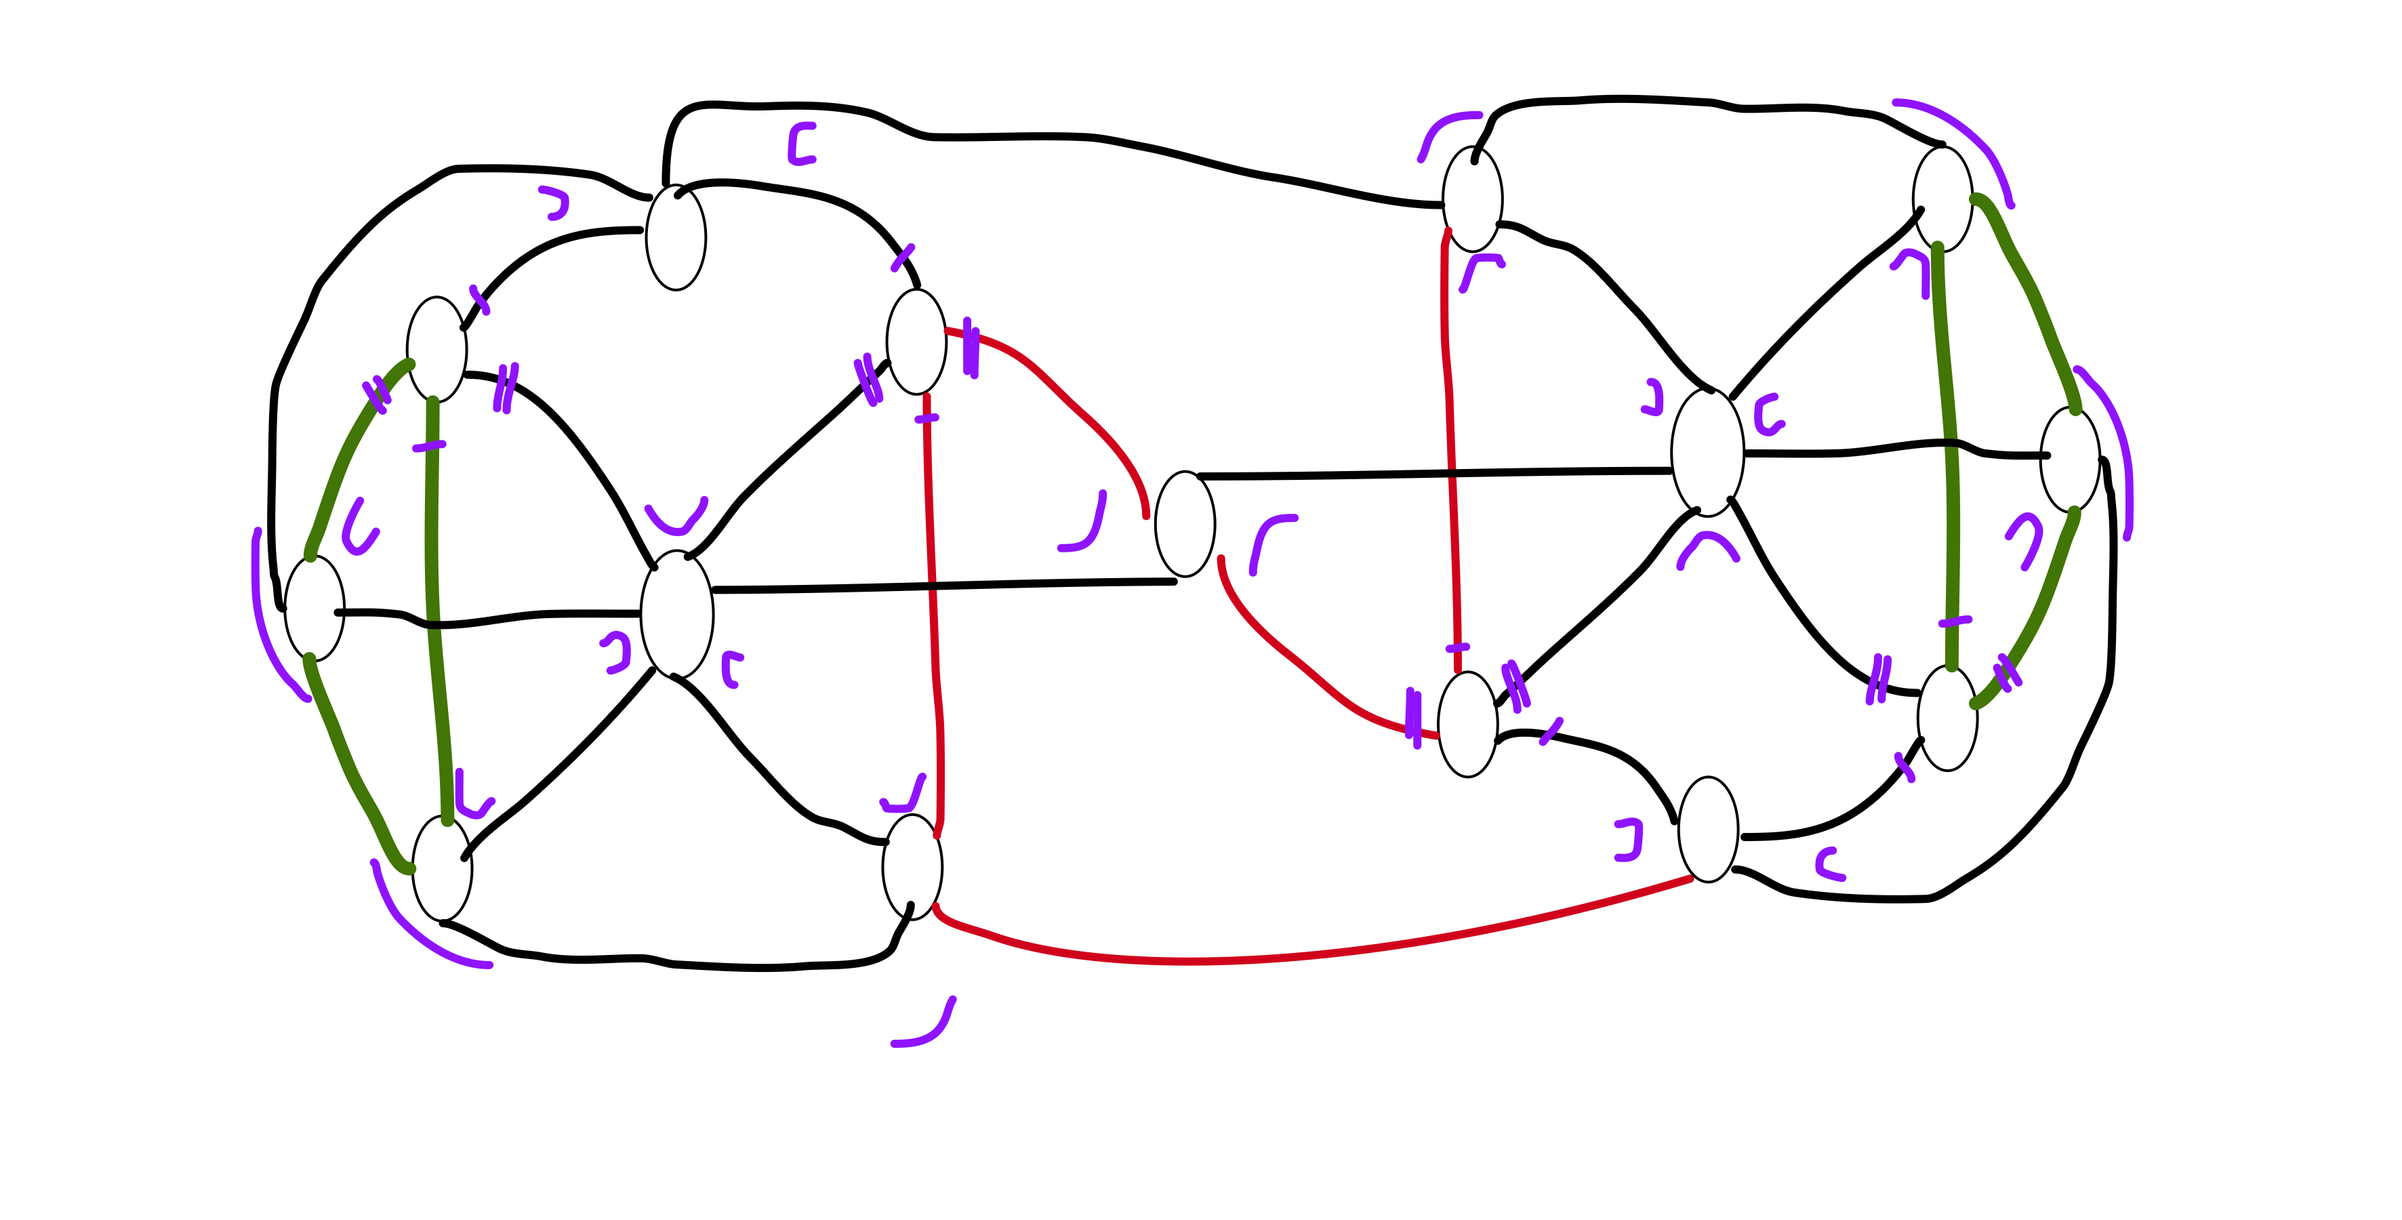
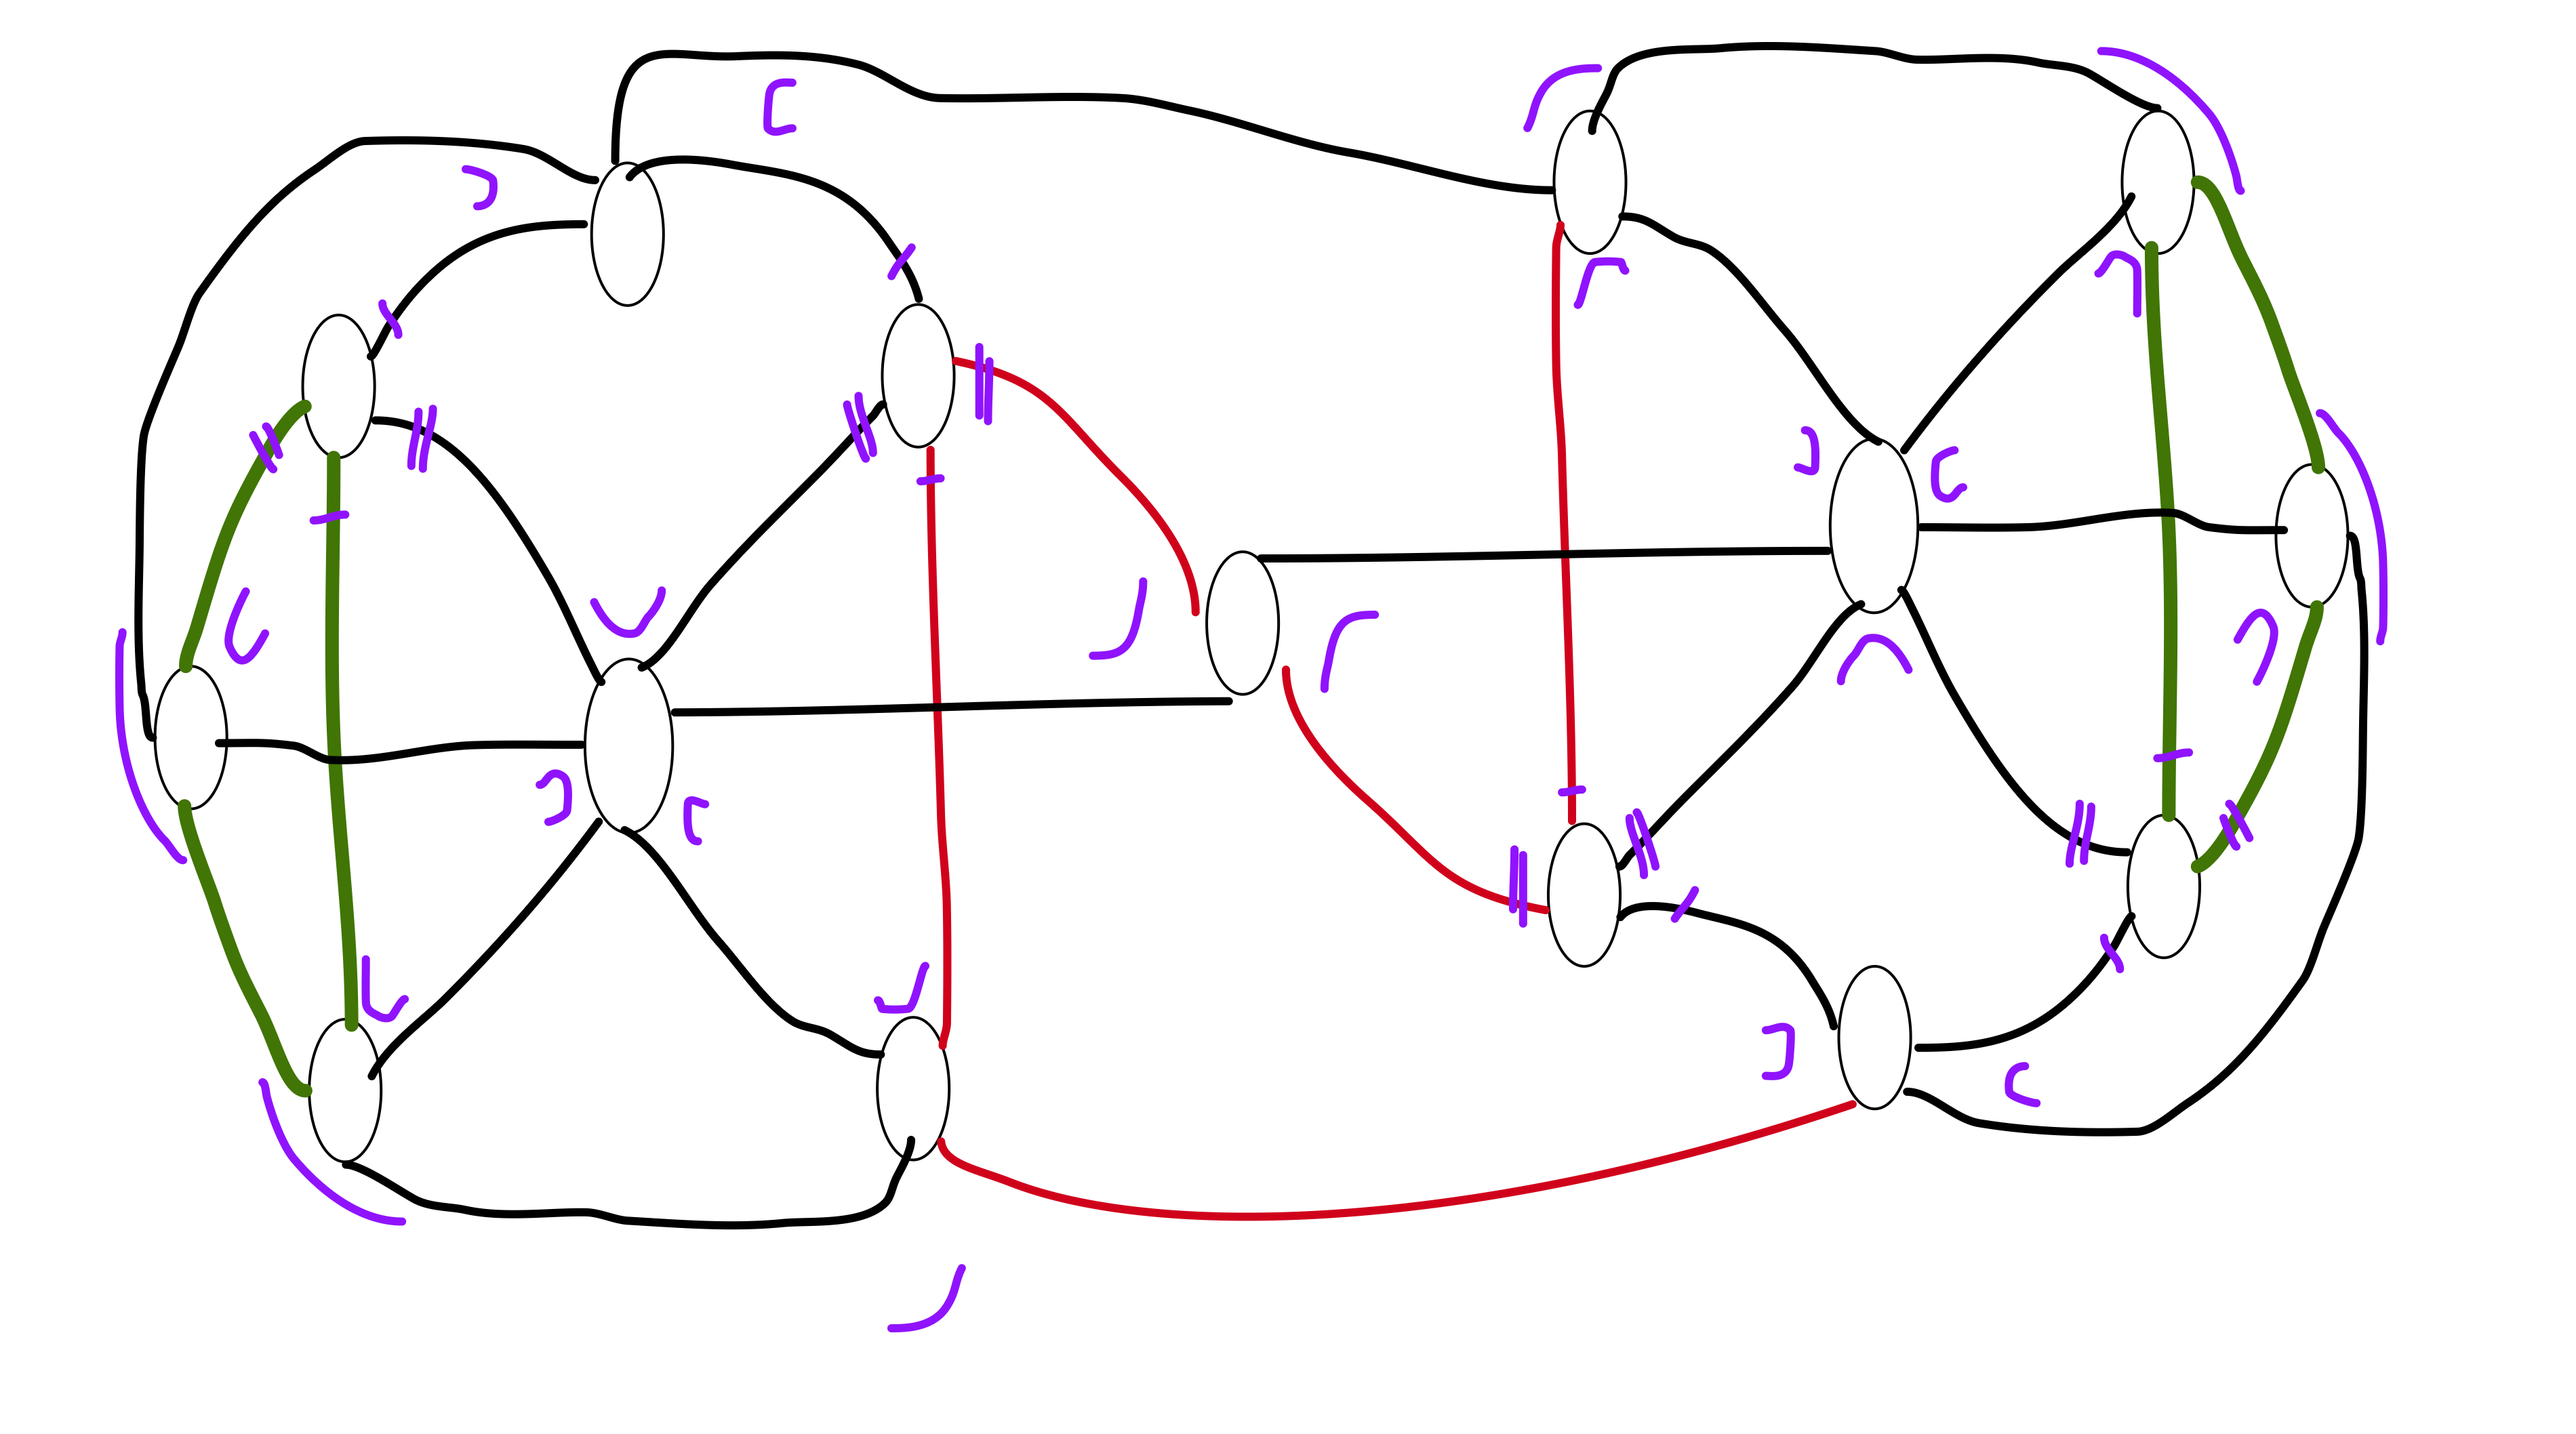
Replace first homepage graph drawing

diff --git a/index.html b/index.html
@@ -107,7 +107,7 @@
     <section class="simple-drawings" aria-labelledby="drawings-title">
         <h2 id="drawings-title">A few of my graph drawings</h2>
         <div class="drawing-grid">
-            <img src="/assets/images/graph-drawing-1.png" alt="Graph drawing with green, red, and purple edges" width="3544" height="1800">
+            <img src="/assets/images/graph-drawing-1.png" alt="Graph drawing with green, red, and purple edges" width="3800" height="2116">
             <img src="/assets/images/graph-drawing-2.png" alt="Graph drawing with red, green, and purple edges" width="2944" height="1648">
             <img src="/assets/images/graph-drawing-3.png" alt="Graph drawing in red" width="2144" height="1616">
         </div>

diff --git a/sachal/index.html b/sachal/index.html
@@ -45,7 +45,7 @@
     <section class="simple-drawings" aria-labelledby="drawings-title">
         <h2 id="drawings-title">A few of my graph drawings</h2>
         <div class="drawing-grid">
-            <img src="/assets/images/graph-drawing-1.png" alt="Graph drawing with green, red, and purple edges" width="3544" height="1800">
+            <img src="/assets/images/graph-drawing-1.png" alt="Graph drawing with green, red, and purple edges" width="3800" height="2116">
             <img src="/assets/images/graph-drawing-2.png" alt="Graph drawing with red, green, and purple edges" width="2944" height="1648">
             <img src="/assets/images/graph-drawing-3.png" alt="Graph drawing in red" width="2144" height="1616">
         </div>
